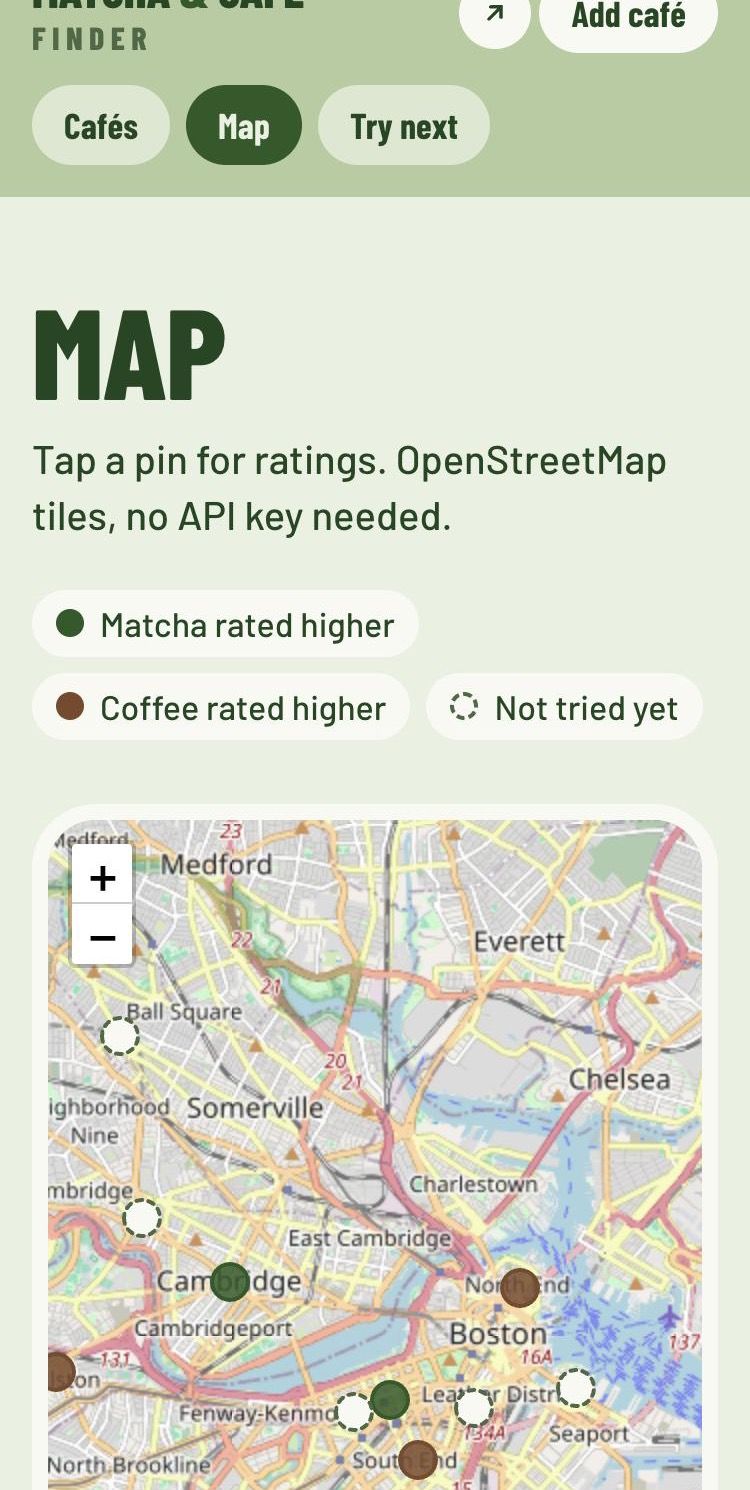
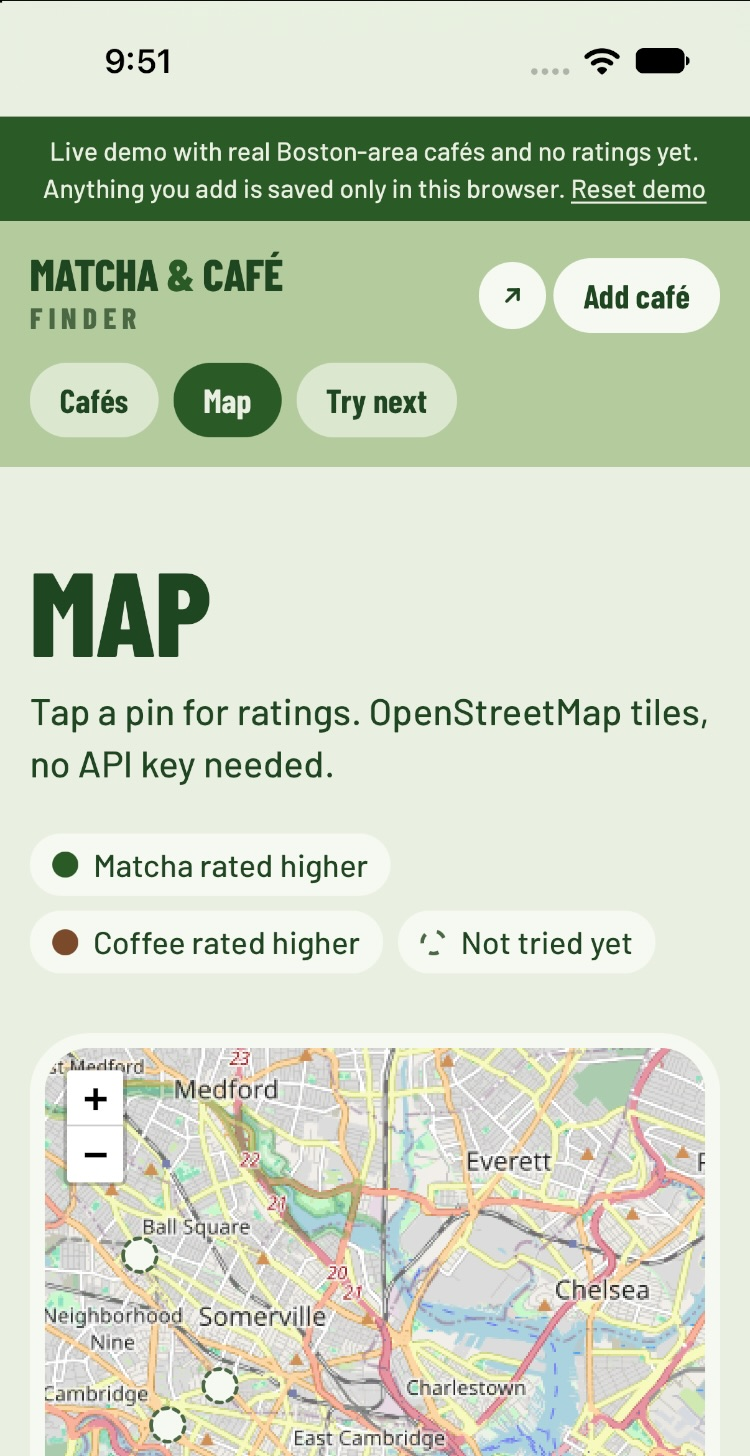
Retake README screenshots with the real cafés
Desktop shots from an iPad Pro 13" simulator and phone shots from an
iPhone 17 simulator, both in Safari against the live demo. Adds the
"Where to next." carousel on both sizes.

diff --git a/README.md b/README.md
@@ -6,16 +6,17 @@ A small full-stack app for keeping track of cafés: log where you went, rate the
 
 ![Café list](docs/screenshots/cafes.jpg)
 
-| Recommendations | Map |
-| --- | --- |
-| ![Recommendations](docs/screenshots/recommendations.jpg) | ![Map](docs/screenshots/map.jpg) |
+| "Where to next." carousel | Recommendations | Map |
+| --- | --- | --- |
+| ![Carousel](docs/screenshots/carousel.jpg) | ![Recommendations](docs/screenshots/recommendations.jpg) | ![Map](docs/screenshots/map.jpg) |
 
-On a phone:
+On a phone (iPhone 17 simulator, Safari):
 
 <p>
-  <img src="docs/screenshots/phone-cafes.jpg" alt="Café list on a phone" width="250">
-  <img src="docs/screenshots/phone-recommendations.jpg" alt="Recommendations on a phone" width="250">
-  <img src="docs/screenshots/phone-map.jpg" alt="Map on a phone" width="250">
+  <img src="docs/screenshots/phone-cafes.jpg" alt="Café list on a phone" width="200">
+  <img src="docs/screenshots/phone-carousel.jpg" alt="Café carousel on a phone" width="200">
+  <img src="docs/screenshots/phone-recommendations.jpg" alt="Recommendations on a phone" width="200">
+  <img src="docs/screenshots/phone-map.jpg" alt="Map on a phone" width="200">
 </p>
 
 > Demo GIF: _coming soon_ (logging a tasting and watching the recommendations change).
